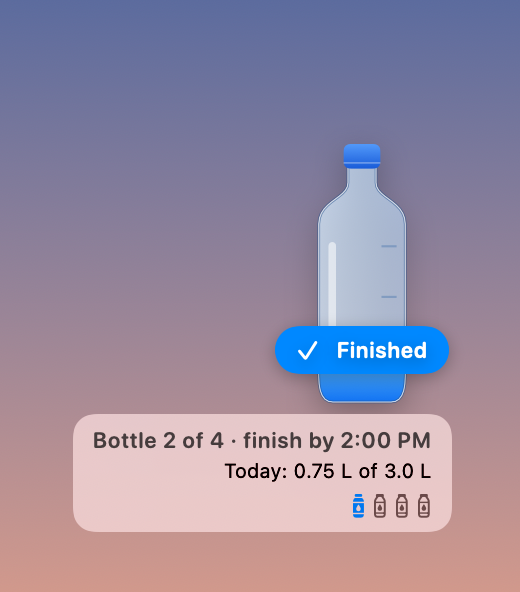
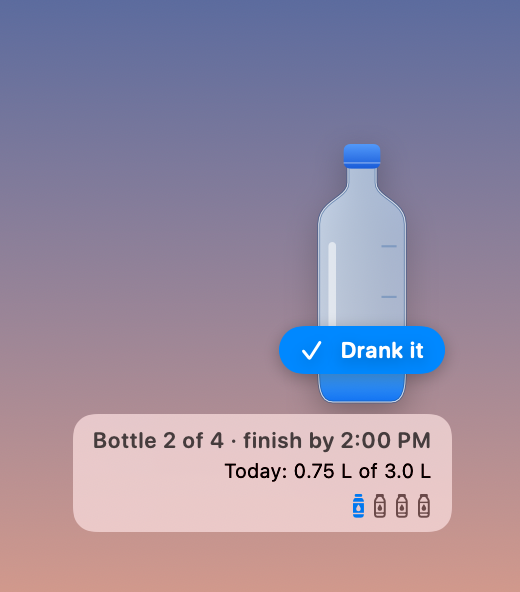
Label the hover button Drank it

Changed region(s): [[0.6462, 0.5473, 0.8615, 0.6385], [0.5231, 0.5473, 0.6154, 0.6385]]

diff --git a/Sources/Sip/UI/Desk.swift b/Sources/Sip/UI/Desk.swift
@@ -78,7 +78,7 @@ struct DeskView: View {
                     Button {
                         model.finishBottle()
                     } label: {
-                        Label("Finished", systemImage: "checkmark")
+                        Label("Drank it", systemImage: "checkmark")
                             .font(.system(size: 11, weight: .semibold, design: .rounded))
                             .padding(.horizontal, 10)
                             .padding(.vertical, 5)

diff --git a/README.md b/README.md
@@ -20,7 +20,7 @@ You know you should drink more water. You fill your bottle in the morning, and a
 **Sip** turns your daily water into a few bottles, each with a time to finish it. A bottle stands on your screen and fills up as you finish your real bottles, so you can see at a glance how much you’ve had today. If you haven’t finished a bottle well past its time, the screen locks for a short water break until you do.
 
 <p align="center">
-  <img src="docs/images/desk.png" width="220" alt="Hovering over the bottle on the screen, a quarter full after one of four bottles: a Finished button, a “Bottle 2 of 4 · finish by 2:00 PM” caption, today’s total, and a row of four small bottles">
+  <img src="docs/images/desk.png" width="220" alt="Hovering over the bottle on the screen, a quarter full after one of four bottles: a “Drank it” button, a “Bottle 2 of 4 · finish by 2:00 PM” caption, today’s total, and a row of four small bottles">
   &nbsp;&nbsp;
   <img src="docs/images/desk-done.png" width="220" alt="The bottle half full after finishing two of four, with the caption “Bottle 2 done · helps keep headaches away” and two of the four small bottles filled in">
 </p>
@@ -40,7 +40,7 @@ You know you should drink more water. You fill your bottle in the morning, and a
 
 ### Reminders that get firmer
 
-- **The bottle fills with your day.** Sip can’t see your real bottle, so it doesn’t guess. When you empty yours, hover over the bottle on screen and click **Finished**. The water rises by one bottle toward today’s goal (with four bottles, each one fills it a quarter). Only the bottle stays on screen. Hover over it to see which bottle you’re on, when to finish it, and today’s total. The menu bar panel can undo a click.
+- **The bottle fills with your day.** Sip can’t see your real bottle, so it doesn’t guess. When you empty yours, hover over the bottle on screen and click **Drank it**. The water rises by one bottle toward today’s goal (with four bottles, each one fills it a quarter). Only the bottle stays on screen. Hover over it to see which bottle you’re on, when to finish it, and today’s total. The menu bar panel can undo a click.
 - **Water you can tilt.** On a MacBook, the water stays level as you tilt the laptop, sloshes when you bump it, open or close the lid, or drag the bottle across the screen, and splashes when a bottle refills. Sip reads the built-in accelerometer and lid sensor, and needs no permission to do it.
 - **Put it anywhere.** Drag the bottle wherever you like and it stays there. It starts on the right side, above the bottom-right corner, so it doesn’t cover apps like Where’d It Go?. **Settings › Bottle on screen** puts it back on the left or right side.
 - **A nudge halfway through.** Halfway through each bottle, a small card slides in under the menu bar to say it should be about half gone. It goes away on its own.
